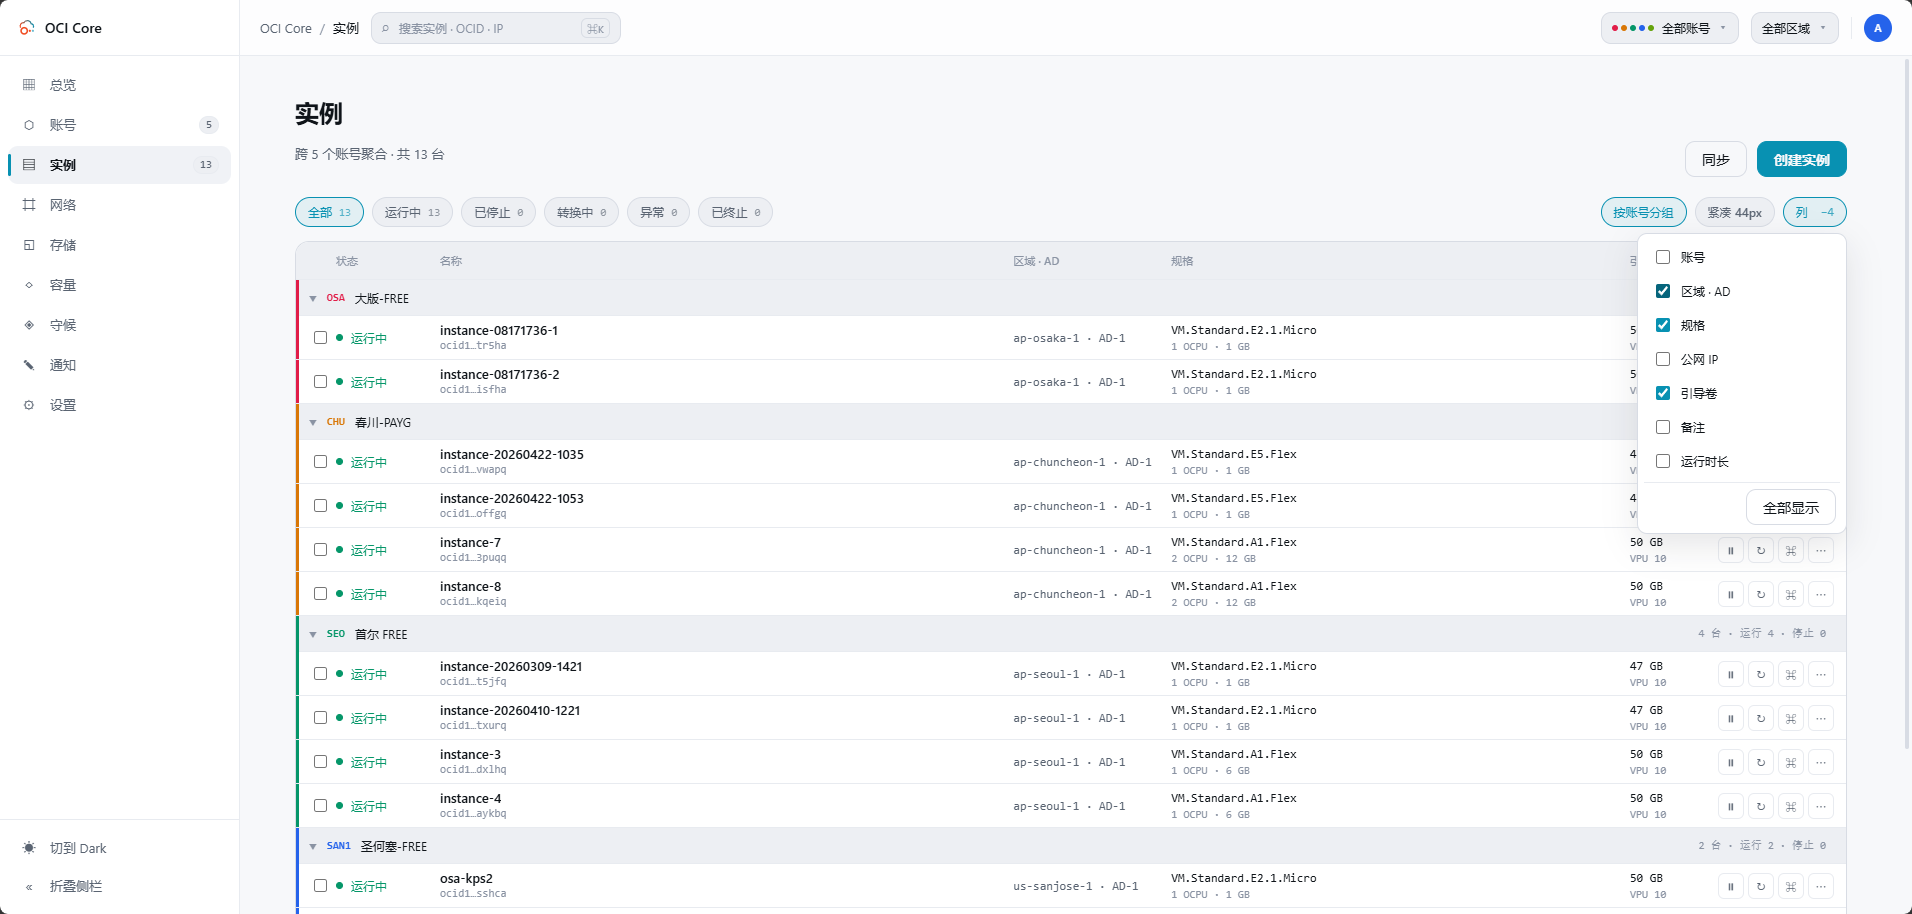
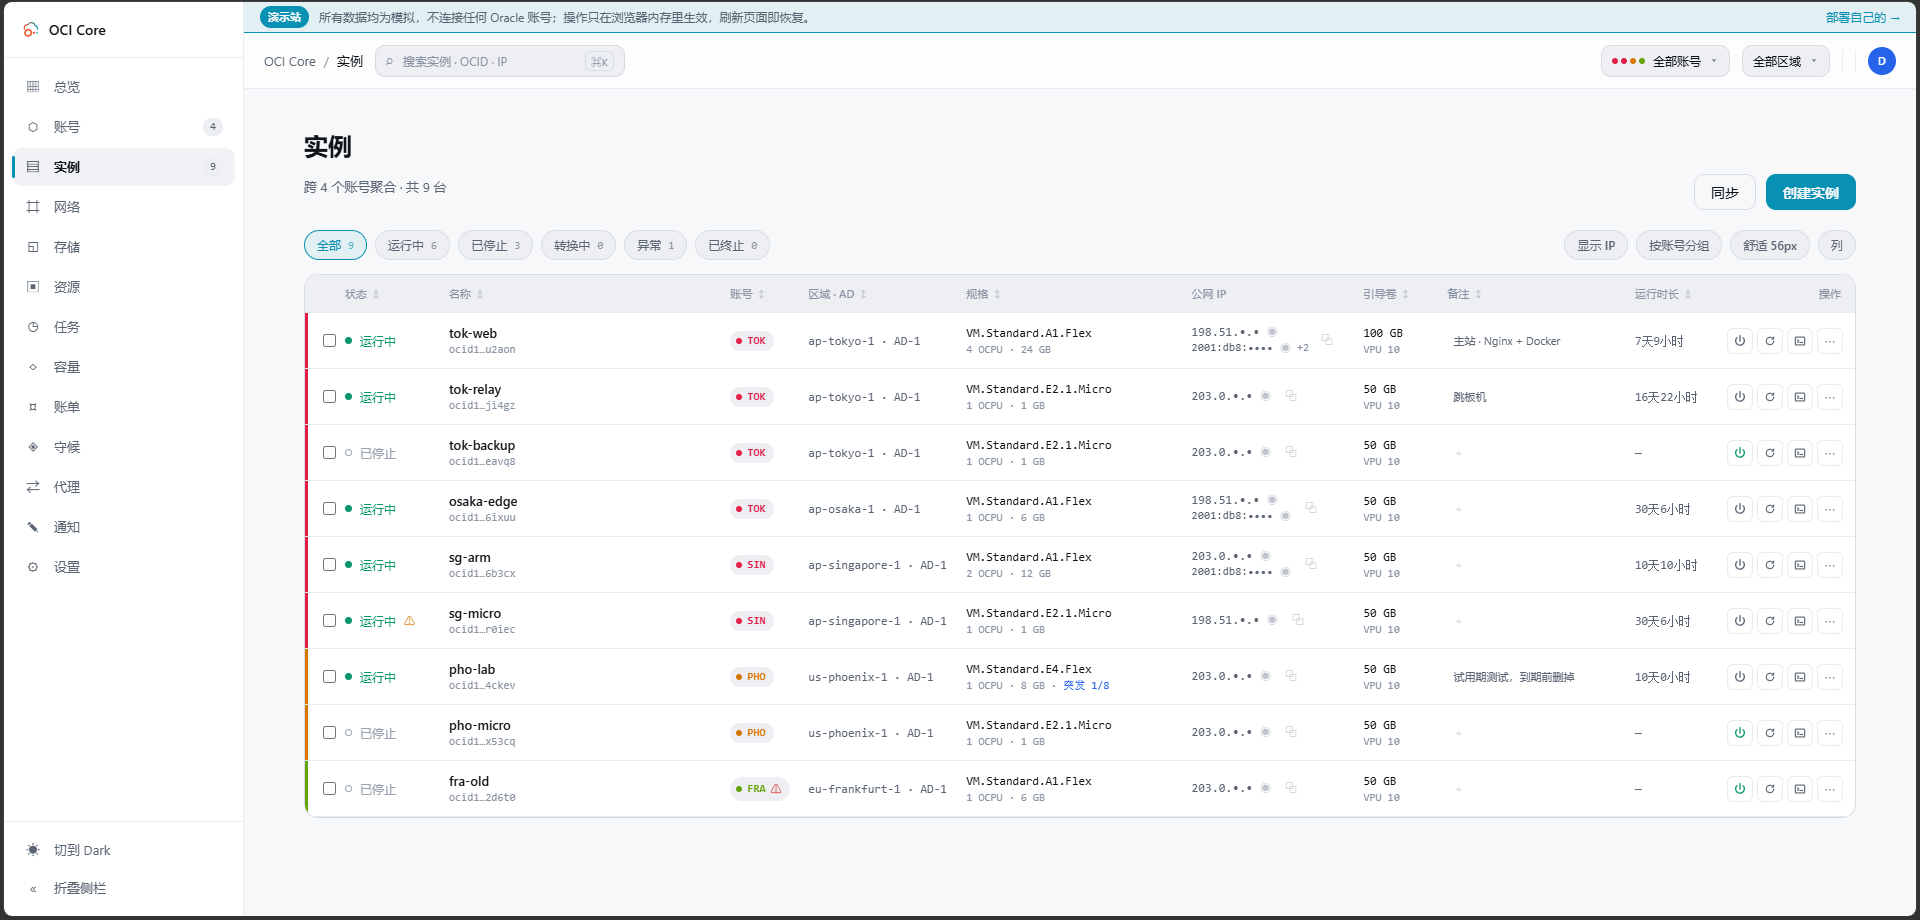
docs: README 加入在线演示并换上新截图
- 顶部加在线演示徽章与入口（https://jsongmax.github.io/oci-core/）
- 截图全部换成演示站上截的（数据为模拟，无需打码），新增创建向导、
  实例网络、后台任务、账号、资源盘点、安全规则；去掉通知截图
- 「界面」一节改为按主题分组的折叠块与两列缩略图，每张一句说明，
  篇幅约为原来的三分之一
- 本地开发一节补充演示站的构建方式与维护约定

diff --git a/README.en.md b/README.en.md
@@ -12,6 +12,9 @@ so you stop switching tenants and regions in the official console.
 [![Go](https://img.shields.io/badge/Go-1.26-00ADD8?logo=go&logoColor=white)](https://go.dev)
 [![Vue 3](https://img.shields.io/badge/Vue-3-4FC08D?logo=vuedotjs&logoColor=white)](https://vuejs.org)
 [![Docker](https://img.shields.io/badge/Docker-ready-2496ED?logo=docker&logoColor=white)](#docker-deployment)
+[![Demo](https://img.shields.io/badge/Live_demo-mock_data-22d3ee)](https://jsongmax.github.io/oci-core/)
+
+**[Live demo →](https://jsongmax.github.io/oci-core/)** All data is simulated and no Oracle account is connected — click around freely
 
 [简体中文](README.md) · English
 
@@ -80,87 +83,51 @@ A single-binary web panel for managing compute instances across multiple Oracle 
 
 ## Screenshots
 
-### Instances
+All screenshots are from the [live demo](https://jsongmax.github.io/oci-core/) with simulated data. Click an image for full size and a heading to expand a group — or just go click around in the demo.
 
-One aggregated list across every account. The colored bar and short code on the left
-identify which account an instance belongs to; state, shape, boot volume, notes and
-uptime all read in a single row. You choose which columns to show — the column picker
-is open in the shot below, with the public IP column switched off.
+<details open>
+<summary><b>Instances</b> · list · launch · detail · background jobs</summary>
+<br>
 
-<img src="docs/screenshots/instances.png" alt="Instance list" width="100%">
+<table>
+<tr><td width="50%" valign="top"><a href="docs/screenshots/instances.png"><img src="docs/screenshots/instances.png" alt="Instance list"></a><br><b>Instance list</b> · Aggregated across accounts with per-account color bars; columns can be hidden and resized, public IPs revealed in one click</td><td width="50%" valign="top"><a href="docs/screenshots/create-instance.png"><img src="docs/screenshots/create-instance.png" alt="Launch wizard"></a><br><b>Launch wizard</b> · Free-tier presets plus every shape in the AD; images filtered by architecture</td></tr>
+<tr><td width="50%" valign="top"><a href="docs/screenshots/instance-network.png"><img src="docs/screenshots/instance-network.png" alt="Networking"></a><br><b>Networking</b> · Primary and secondary VNICs side by side; change public IP, add / remove IPv6, attach / detach VNICs</td><td width="50%" valign="top"><a href="docs/screenshots/instance-storage.png"><img src="docs/screenshots/instance-storage.png" alt="Storage & reshape"></a><br><b>Storage & reshape</b> · Boot volume size and VPU sliders; OCPU and memory linked when reshaping</td></tr>
+<tr><td width="50%" valign="top"><a href="docs/screenshots/instance-rescue.png"><img src="docs/screenshots/instance-rescue.png" alt="Rescue mode"></a><br><b>Rescue mode</b> · Mount a broken boot volume on another instance, fix files, attach it back</td><td width="50%" valign="top"><a href="docs/screenshots/instance-metrics.png"><img src="docs/screenshots/instance-metrics.png" alt="Metrics"></a><br><b>Metrics</b> · CPU / memory charts and this month's traffic, resolution adapts to the time range</td></tr>
+<tr><td width="50%" valign="top"><a href="docs/screenshots/instance-console.png"><img src="docs/screenshots/instance-console.png" alt="Serial console"></a><br><b>Serial console</b> · Troubleshoot when SSH is down; RSA keys only, your private key never leaves you</td><td width="50%" valign="top"><a href="docs/screenshots/jobs.png"><img src="docs/screenshots/jobs.png" alt="Background jobs"></a><br><b>Background jobs</b> · Launch, IP change, reshape and other long operations keep running after you close the page</td></tr>
+</table>
 
-### Instance detail
+</details>
 
-Open any instance and the right-hand drawer holds everything you can do to it.
+<details>
+<summary><b>Accounts & resources</b> · accounts · inventory · networking · billing</summary>
+<br>
 
-**Storage** — boot volume resize and VPU tuning are sliders with live estimates of IOPS
-and throughput. Reshaping links OCPU and memory, and states plainly that Oracle will
-restart the instance once when the change is applied — that sentence should not wait
-until after you click.
+<table>
+<tr><td width="50%" valign="top"><a href="docs/screenshots/accounts.png"><img src="docs/screenshots/accounts.png" alt="Accounts"></a><br><b>Accounts</b> · Connectivity, trial countdown, account age and ARM quota at a glance</td><td width="50%" valign="top"><a href="docs/screenshots/resources.png"><img src="docs/screenshots/resources.png" alt="Resource inventory"></a><br><b>Resource inventory</b> · Per-account usage vs. Always Free; unattached volumes and unassigned reserved IPs listed and cleanable</td></tr>
+<tr><td width="50%" valign="top"><a href="docs/screenshots/network.png"><img src="docs/screenshots/network.png" alt="Security rules"></a><br><b>Security rules</b> · Common rules in one click; "allow all" is flagged separately</td><td width="50%" valign="top"><a href="docs/screenshots/billing.png"><img src="docs/screenshots/billing.png" alt="Billing"></a><br><b>Billing</b> · This and last month's cost, by service and SKU; free accounts show usage instead</td></tr>
+</table>
 
-<img src="docs/screenshots/instance-storage.png" alt="Instance detail — storage and reshape" width="100%">
+</details>
 
-**Rescue mode** — when a machine will not boot, detach its boot volume, mount it on
-another instance you can still SSH into, fix the files, and attach it back. This is how
-you restore a lost SSH key or repair a broken fstab.
+<details>
+<summary><b>Capacity</b> · capacity monitor · capacity hunter</summary>
+<br>
 
-<img src="docs/screenshots/instance-rescue.png" alt="Instance detail — rescue mode" width="100%">
+<table>
+<tr><td width="50%" valign="top"><a href="docs/screenshots/capacity.png"><img src="docs/screenshots/capacity.png" alt="Capacity monitor"></a><br><b>Capacity monitor</b> · Oracle's read-only capacity report: is a shape available in each AD right now</td><td width="50%" valign="top"><a href="docs/screenshots/hunt.png"><img src="docs/screenshots/hunt.png" alt="Capacity hunter"></a><br><b>Capacity hunter</b> · Retries launches until it succeeds; checks capacity first and skips the launch when there is none</td></tr>
+</table>
 
-**Metrics** — inbound and outbound traffic plus CPU utilization, with resolution that
-adapts to the selected time span.
+</details>
 
-<img src="docs/screenshots/instance-metrics.png" alt="Instance detail — metrics" width="100%">
+<details>
+<summary><b>Settings</b> · policies · two-factor auth · audit</summary>
+<br>
 
-**Serial console** — independent of network configuration, for when SSH will not connect.
-Two easily-missed facts are stated up front: Oracle accepts RSA keys only (not ed25519),
-and this tool never holds your private key.
+<table>
+<tr><td width="50%" valign="top"><a href="docs/screenshots/settings.png"><img src="docs/screenshots/settings.png" alt="Settings"></a><br><b>Settings</b> · Dangerous-operation policies, two-factor auth, audit log and retention</td><td width="50%"></td></tr>
+</table>
 
-<img src="docs/screenshots/instance-console.png" alt="Instance detail — serial console" width="100%">
-
-### Capacity monitor
-
-Queries Oracle's official read-only capacity report to see whether a shape has capacity
-in each availability domain right now. It creates nothing and consumes no quota, so you
-can run it whenever you like.
-
-<img src="docs/screenshots/capacity.png" alt="Capacity monitor" width="100%">
-
-### Capacity hunter
-
-Retries launching an instance in the background until it succeeds or expires. The page
-states the risks up front: a hard 30-second floor on the interval that cannot be raised,
-and one task per account. Running tasks show attempt count, the availability domain
-currently in rotation, why the last attempt failed, and a countdown to the next one —
-the task runs unattended, and without those numbers it is a black box.
-
-<img src="docs/screenshots/hunt.png" alt="Capacity hunter" width="100%">
-
-### Billing
-
-Per-account cost for this month and last, a daily trend, and a breakdown by service and
-region. Data comes from Oracle's Usage API — read-only; the query itself costs nothing.
-
-The reality this page is built around: most users of this tool run free-tier accounts where
-the amount is permanently zero. A screen full of `0.00` looks exactly like a broken feature,
-so when the cost is zero the page shows **consumption** instead — OCPU hours, GB months.
-That is the number a free-tier user should actually be watching.
-
-"Within free tier" and "permission missing" are separate states and must stay that way: the
-first means "nothing was spent", the second means "we cannot tell whether anything was
-spent". When the permission is missing the page hands you the exact policy to copy rather
-than a generic "query failed" — that policy is the only thing you need to do.
-
-Cross-account totals are grouped by currency rather than summed into one number, and
-accounts that could not be read are excluded from the total — counting them as 0 would make
-the total look like "these accounts spent nothing".
-
-<img src="docs/screenshots/billing.png" alt="Billing" width="100%">
-
-### Notifications and settings
-
-| Notification channels | Operation policy |
-|---|---|
-| <img src="docs/screenshots/notify.png" alt="Notification channels"> | <img src="docs/screenshots/settings.png" alt="Settings"> |
+</details>
 
 ---
 
@@ -345,6 +312,21 @@ don't require rebuilding Go:
 ```bash
 OCICORE_STATIC_DIR=./internal/web/dist go run ./cmd/server
 ```
+
+### Demo site
+
+The [live demo](https://jsongmax.github.io/oci-core/) is a special frontend build with no backend: every API call is
+simulated in the browser by `web/src/demo/server.ts`, and all data is made up (IPs come from
+documentation ranges). It is built and deployed to GitHub Pages by
+`.github/workflows/pages.yml` on every `v*` tag.
+
+```bash
+cd web && npm run build:demo   # output in web/dist-demo
+```
+
+The regular build (`npm run build`) tree-shakes the demo code away entirely, so release
+binaries and images never contain it. When adding an API endpoint, add a mock for it in
+`server.ts`, otherwise the demo will report it as unsupported.
 
 ### Building a single binary
 

diff --git a/README.md b/README.md
@@ -11,6 +11,9 @@
 [![Go](https://img.shields.io/badge/Go-1.26-00ADD8?logo=go&logoColor=white)](https://go.dev)
 [![Vue 3](https://img.shields.io/badge/Vue-3-4FC08D?logo=vuedotjs&logoColor=white)](https://vuejs.org)
 [![Docker](https://img.shields.io/badge/Docker-ready-2496ED?logo=docker&logoColor=white)](#docker-部署)
+[![Demo](https://img.shields.io/badge/在线演示-模拟数据-22d3ee)](https://jsongmax.github.io/oci-core/)
+
+**[在线演示 →](https://jsongmax.github.io/oci-core/)** 全部为模拟数据，不连接任何 Oracle 账号，可以随便点
 
 简体中文 · [English](README.en.md)
 
@@ -78,75 +81,51 @@
 
 ## 界面
 
-### 实例
+截图均来自[在线演示](https://jsongmax.github.io/oci-core/)，数据为模拟。点击图片看原图，点标题展开其余分组；想看完整交互，直接去演示站点一点。
 
-跨账号聚合列表。左侧色条与短代号标出这台机器属于哪个账号，状态、规格、引导卷、
-备注、运行时长一行看全。哪些列显示可以自己选——下图正开着列选择器，公网 IP 已关掉。
+<details open>
+<summary><b>实例</b> · 列表 · 创建 · 详情 · 后台任务</summary>
+<br>
 
-<img src="docs/screenshots/instances.png" alt="实例列表" width="100%">
+<table>
+<tr><td width="50%" valign="top"><a href="docs/screenshots/instances.png"><img src="docs/screenshots/instances.png" alt="实例列表"></a><br><b>实例列表</b> · 跨账号聚合，色条与代号标出归属；列可显隐、可拖宽，公网 IP 一键显隐</td><td width="50%" valign="top"><a href="docs/screenshots/create-instance.png"><img src="docs/screenshots/create-instance.png" alt="创建向导"></a><br><b>创建向导</b> · 免费预设之外可选该可用域的全部规格，镜像按架构过滤</td></tr>
+<tr><td width="50%" valign="top"><a href="docs/screenshots/instance-network.png"><img src="docs/screenshots/instance-network.png" alt="网络"></a><br><b>网络</b> · 主网卡与附属网卡并列；更换公网 IP、增删 IPv6、添加 / 分离附属网卡</td><td width="50%" valign="top"><a href="docs/screenshots/instance-storage.png"><img src="docs/screenshots/instance-storage.png" alt="存储与配置"></a><br><b>存储与配置</b> · 引导卷扩容与 VPU 用滑块调，改配置时 OCPU 与内存联动</td></tr>
+<tr><td width="50%" valign="top"><a href="docs/screenshots/instance-rescue.png"><img src="docs/screenshots/instance-rescue.png" alt="救援模式"></a><br><b>救援模式</b> · 把起不来的系统盘挂到另一台机器上改文件，再挂回去</td><td width="50%" valign="top"><a href="docs/screenshots/instance-metrics.png"><img src="docs/screenshots/instance-metrics.png" alt="监控"></a><br><b>监控</b> · CPU / 内存曲线与本月出入站流量，粒度随跨度自适应</td></tr>
+<tr><td width="50%" valign="top"><a href="docs/screenshots/instance-console.png"><img src="docs/screenshots/instance-console.png" alt="串行控制台"></a><br><b>串行控制台</b> · SSH 连不上时排障；只接受 RSA 公钥，不代管私钥</td><td width="50%" valign="top"><a href="docs/screenshots/jobs.png"><img src="docs/screenshots/jobs.png" alt="后台任务"></a><br><b>后台任务</b> · 创建、换 IP、改配置等长耗时操作在后台跑，关掉页面也会跑完</td></tr>
+</table>
 
-### 实例详情
+</details>
 
-点开任意一台机器，右侧抽屉里是它的全部操作面。
+<details>
+<summary><b>账号与资源</b> · 账号 · 资源盘点 · 网络 · 账单</summary>
+<br>
 
-**存储** —— 引导卷扩容与 VPU 调整都是滑块，旁边实时算出预估 IOPS 和吞吐。
-改配置时 OCPU 与内存联动，并直说 Oracle 会在应用变更时重启实例一次——
-这句话不该等到点下去之后才出现。
+<table>
+<tr><td width="50%" valign="top"><a href="docs/screenshots/accounts.png"><img src="docs/screenshots/accounts.png" alt="账号"></a><br><b>账号</b> · 连通性、试用倒计时、开户天数与 ARM 配额一屏看全</td><td width="50%" valign="top"><a href="docs/screenshots/resources.png"><img src="docs/screenshots/resources.png" alt="资源盘点"></a><br><b>资源盘点</b> · 按账号对照免费额度，单列未挂载的卷、未绑定的保留 IP 并可直接清理</td></tr>
+<tr><td width="50%" valign="top"><a href="docs/screenshots/network.png"><img src="docs/screenshots/network.png" alt="安全规则"></a><br><b>安全规则</b> · 常用规则一键追加，「全部放行」单独警示</td><td width="50%" valign="top"><a href="docs/screenshots/billing.png"><img src="docs/screenshots/billing.png" alt="账单"></a><br><b>账单</b> · 本月与上月费用、按服务与计费项分解；免费号改看用量</td></tr>
+</table>
 
-<img src="docs/screenshots/instance-storage.png" alt="实例详情 · 存储与配置" width="100%">
+</details>
 
-**救援模式** —— 机器起不来时把系统盘卸下来，挂到另一台能 SSH 的机器上改文件，
-再挂回去。补 SSH 公钥、修坏掉的 fstab 都靠它。
+<details>
+<summary><b>容量与守候</b> · 容量监控 · 容量守候</summary>
+<br>
 
-<img src="docs/screenshots/instance-rescue.png" alt="实例详情 · 救援模式" width="100%">
+<table>
+<tr><td width="50%" valign="top"><a href="docs/screenshots/capacity.png"><img src="docs/screenshots/capacity.png" alt="容量监控"></a><br><b>容量监控</b> · 调 Oracle 只读的容量报告，看某规格在各可用域有没有货</td><td width="50%" valign="top"><a href="docs/screenshots/hunt.png"><img src="docs/screenshots/hunt.png" alt="容量守候"></a><br><b>容量守候</b> · 反复尝试创建直到成功，默认先查容量，没货就不发创建请求</td></tr>
+</table>
 
-**监控** —— 出入站流量与 CPU 使用率，粒度随时间跨度自适应。
+</details>
 
-<img src="docs/screenshots/instance-metrics.png" alt="实例详情 · 监控" width="100%">
+<details>
+<summary><b>设置</b> · 操作策略 · 两步验证 · 审计</summary>
+<br>
 
-**串行控制台** —— 不依赖网络配置，SSH 连不上时用它排障。这里明说了两件容易踩的事：
-Oracle 只接受 RSA 公钥（不支持 ed25519），以及本工具不会代管你的私钥。
+<table>
+<tr><td width="50%" valign="top"><a href="docs/screenshots/settings.png"><img src="docs/screenshots/settings.png" alt="设置"></a><br><b>设置</b> · 危险操作策略、两步验证、审计日志与保留期限</td><td width="50%"></td></tr>
+</table>
 
-<img src="docs/screenshots/instance-console.png" alt="实例详情 · 串行控制台" width="100%">
-
-### 容量监控
-
-调 Oracle 官方的只读容量报告接口，查某个规格在各可用域此刻有没有货。
-不创建任何资源、不消耗配额，可以放心随时查。
-
-<img src="docs/screenshots/capacity.png" alt="容量监控" width="100%">
-
-### 容量守候
-
-后台反复尝试创建实例，直到成功或到期。页面顶部直说风险：间隔硬下限 30 秒不可放开、
-每个账号只允许一个任务。任务跑起来后会显示已尝试次数、当前轮到哪个可用域、
-上次失败的原因和下次尝试的倒计时——任务在后台无人看管地跑，这些不显示它就是个黑盒。
-
-<img src="docs/screenshots/hunt.png" alt="容量守候" width="100%">
-
-### 账单
-
-各账号本月与上月的费用、日趋势、按服务与区域的分解。数据来自 Oracle 的 Usage API，
-只读，查询本身不产生费用。
-
-这一页处理的核心现实是：本工具的用户大多是免费额度账号，金额恒为零。
-一屏 `0.00` 和「功能坏了」长得一模一样，所以金额为零时页面转而展示**用量**——
-用了多少 OCPU 小时、多少 GB 月，那才是免费号该盯的数字。
-
-「免费额度内」与「缺查询权限」是两个独立状态，不能合并：前者是「确实没花钱」，
-后者是「不知道花没花钱」，含义正好相反。缺权限时直接给出可照抄的策略，
-而不是一句「查询失败」——那条策略是唯一要做的事。
-
-跨账号合计按币种分开，不给单一总数；查不到的账号不计入合计，
-把它们算成 0 会让总数看着像「这几个账号没花钱」。
-
-<img src="docs/screenshots/billing.png" alt="账单" width="100%">
-
-### 通知与设置
-
-| 通知渠道 | 操作策略 |
-|---|---|
-| <img src="docs/screenshots/notify.png" alt="通知渠道"> | <img src="docs/screenshots/settings.png" alt="设置"> |
+</details>
 
 ---
 
@@ -326,6 +305,19 @@ cd web && npm install && npm run dev
 ```bash
 OCICORE_STATIC_DIR=./internal/web/dist go run ./cmd/server
 ```
+
+### 演示站
+
+[在线演示](https://jsongmax.github.io/oci-core/)是前端的一个特殊构建：不需要后端，所有接口由
+`web/src/demo/server.ts` 在浏览器里模拟，数据全是编的（IP 用文档保留段）。
+每次打 `v*` tag 时由 `.github/workflows/pages.yml` 构建并部署到 GitHub Pages。
+
+```bash
+cd web && npm run build:demo   # 产物在 web/dist-demo
+```
+
+正常构建（`npm run build`）会把演示代码整个摇掉，发版的二进制与镜像里没有它。
+新增接口时记得在 `server.ts` 里补一个模拟实现，否则演示站上会提示「不支持」。
 
 ### 构建单二进制
 
